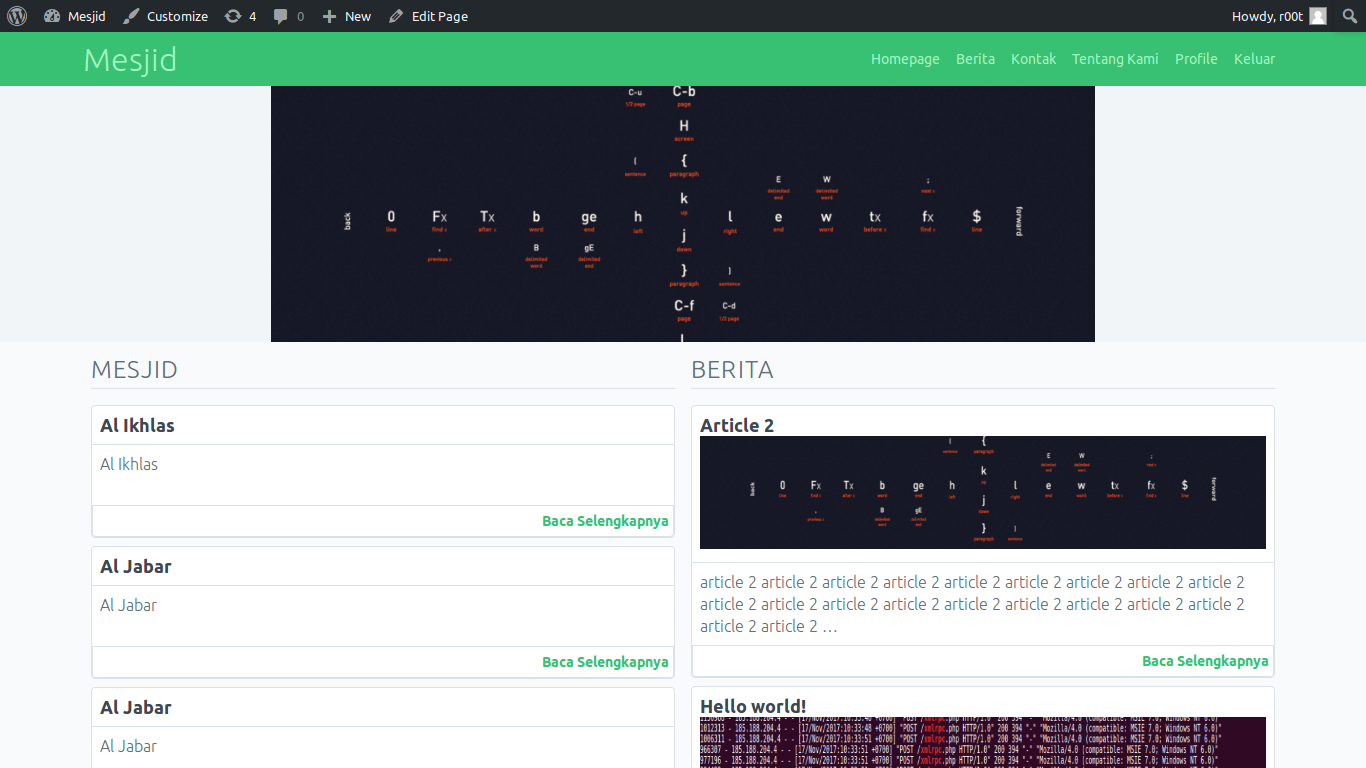
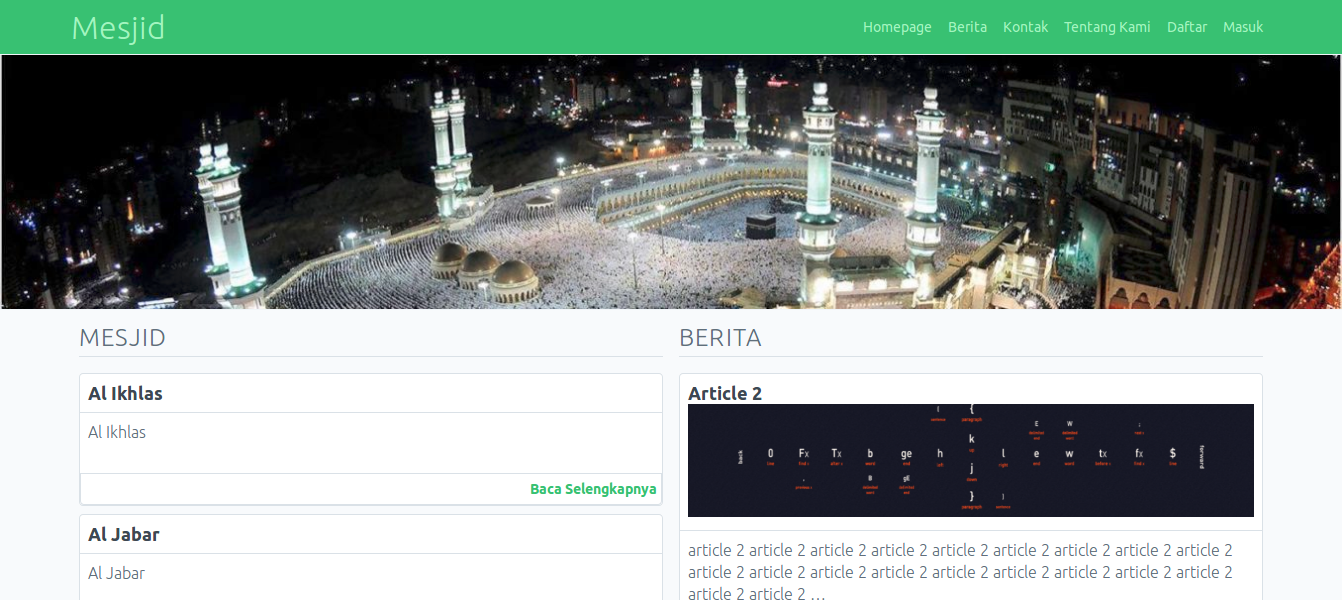
Add Default IMage

diff --git a/functions.php b/functions.php
@@ -7,9 +7,9 @@ include('shortcode.php');
  * this function for register a slide area into fron-page
  */
 $defaults = array( 
-    'default-image'      =>  '%s/images/top/main_image.png',
-    'width'              =>  950,
-    'height'             =>  295,
+    'default-image'      =>  '%s/img/custom_header.jpg',
+    'width'              =>  1356,
+    'height'             =>  256,
     'default-text-color' =>  '',
     'header-text'        => false
 );

diff --git a/part/header-image.php b/part/header-image.php
@@ -1,5 +1,12 @@
+<?php
+$img = sprintf("%s/img/custom_header.jpg", get_template_directory_uri());
+
+if( ! is_null(header_image())){
+    $img = header_image(); 
+}?>
+
 <div class="h-64 w-full bg-contain bg-center bg-no-repeat bg-grey-lighter"
-style="background-image: url('<?php header_image()?>')"
+style="background-image: url('<?php echo $img ?>')"
 >
 </div>
 

diff --git a/page.php b/page.php
@@ -10,7 +10,6 @@ endif;
 get_template_part('back_to_top');
 ?>
 </section><!-- #contents end -->
-<?php get_sidebar();?>
 <?php get_footer();?>
 
 
